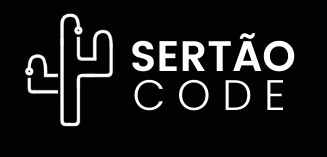
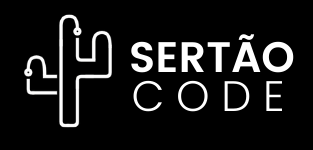
Rodape da base funcional e redimensionavel

Changed region(s): [[0.4026, 0.1867, 0.9489, 0.7467], [0.0575, 0.08, 0.3738, 0.8533]]

diff --git a/public/css/estiloPadrao.css b/public/css/estiloPadrao.css
@@ -21,55 +21,57 @@ html, body {height:100%;}
 
 .logo
 {        
-    width: 110%;
+    width: 40%;
     height: 100%;
     padding-bottom: 0.5em;
+    vertical-align: middle;
 }
 
 .bottomBar{
-    height: 140px;
+    height: auto;
     width: 100%;
     padding-top: 1em;
-    background-color: #000000;
-    display: flex; 
-    flex-direction: row;    
-    bottom:0;
-    align-items: center;
-    flex-wrap: wrap;
-    justify-content: center;
+    padding-bottom: 1em;
+    background-color: #000000;    
+    position: absolute;    
+    bottom:0px;    
 }
 
 .operacoesUsuario{
     margin-right: 2em;
 }
 
+
+.centralizador{    
+    align-items: center;    
+    justify-content: center;
+}
+
 .logoSertao
 {
-    width:13%;
-    height: 65%;    
-    background-image: url('/imagens/SertaoCode.png');
-    background-repeat: no-repeat;
-    background-size: 100%;
-    align-self: center;    
+    width:100%;
+    height: 100%;
+    margin:0;
+    
+    align-items: center;    
 }
 
 .rodape{
-    width: 25%;    
+    width: 80%;
+    margin:0;
     family-font:"Arial";
     font-size: 10px;
     margin-left:1em;
     color:white;
     align-self: center;
+    vertical-align: middle;
 }
 
 .formasPagamento
 {
-    width:20%;
-    height: 60%;    
+    width:100%;
+    height: 100%;    
     align-self:center;    
-    background-image: url('/imagens/pagamentos.png');
-    background-repeat: no-repeat;
-    background-size: 80%;    
 }
 
 .botaoSelecionado
@@ -90,9 +92,4 @@ html, body {height:100%;}
     font-style: bold;
     background-color:white;
     height:50px;    
-<<<<<<< HEAD
-
 }
-=======
-}
->>>>>>> baba9679c9e47debae09d91e2d98e3b0cd26f9d4

diff --git a/public/css/estiloPaginas.css b/public/css/estiloPaginas.css
@@ -6,7 +6,7 @@
 
 .card
 {
-    margin-top:1em;
+    margin-top:1em;    
 }
 
 

diff --git a/resources/views/app.blade.php b/resources/views/app.blade.php
@@ -27,13 +27,24 @@
         @yield('content')
     </div>
         
-    <div id="bottomBar" class="footer navbar-fixed-bottom bottomBar">
-        <div class="logoSertao"></div>
-        <div class="rodape">
-            <label><b>BusOn</b> - Sistema de Compra e Venda de Passagens Online.</label>
-            <label>Avenida Transnordestina, S/N, Novo Horizonte. Feira de Santana-BA.</label>
-            <label><b>Desenvolvido por Sertão Code, 2021.</b></label>
-        </div>
-        <div class="formasPagamento"></div>                
-    </div>
+    <footer class="bottomBar">
+        <div class="container max-width" style="align-items: center;">
+            <div class="row centralizador">        
+                    <div class="col-md-2 logo d-flex flex-column justify-content-center align-items-center">
+                        <img style="width:100%; height:100%;" src="{{URL::asset('/imagens/SertaoCode.png')}}" />
+                    </div>
+                    <div class="col-md-5 d-flex flex-column justify-content-center align-items-center">
+                        <div class="rodape">
+                            <label><b>BusOn</b> - Sistema de Compra e Venda de Passagens Online.</label>
+                            <label>Avenida Transnordestina, S/N, Novo Horizonte. Feira de Santana-BA.</label>
+                            <label><b>Desenvolvido por Sertão Code, 2021.</b></label>
+                        </div>  
+                    </div>
+                    <div class="col-md-2 formasPagamento d-flex flex-column justify-content-center align-items-center">                        
+                            <img style="width:100%; height:100%;" src="{{URL::asset('/imagens/pagamentos.png')}}" />
+                    </div>
+            </div>
+        </div>                
+        
+    </footer>
 </body>
